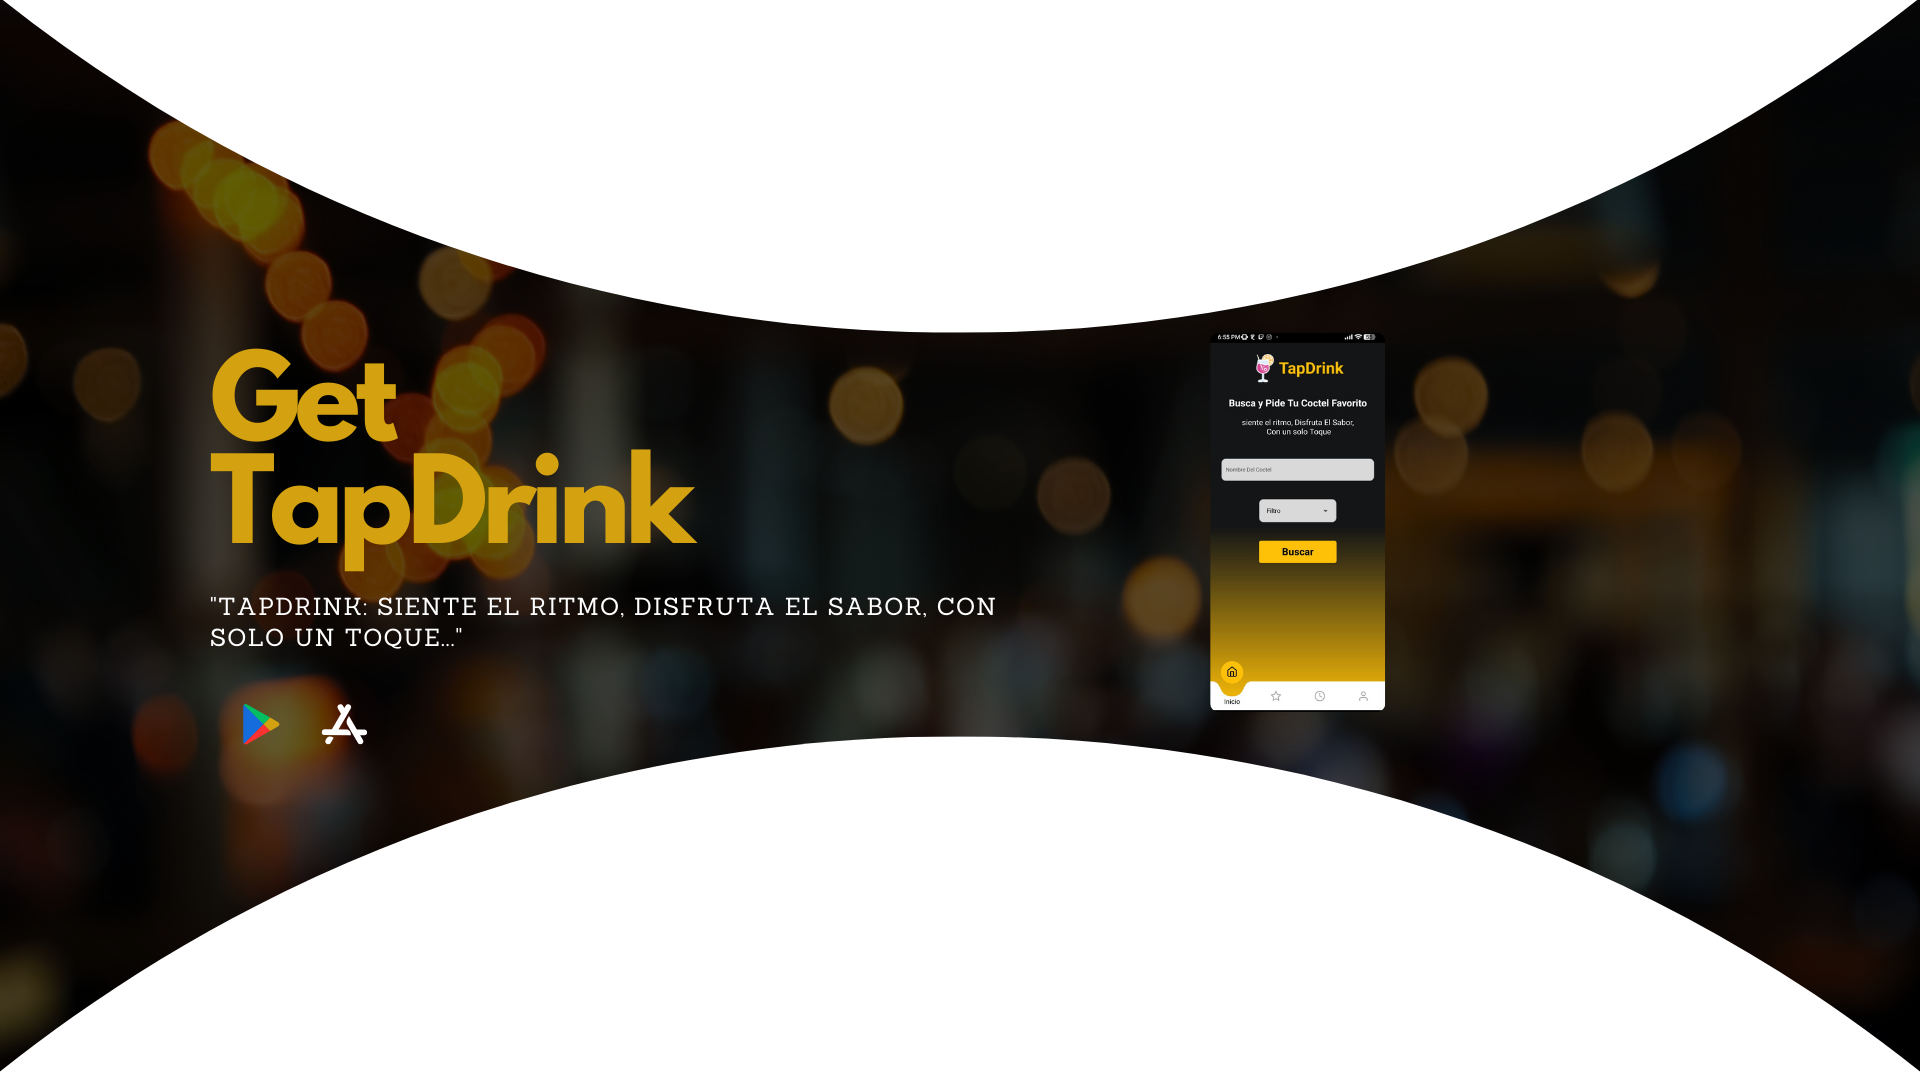
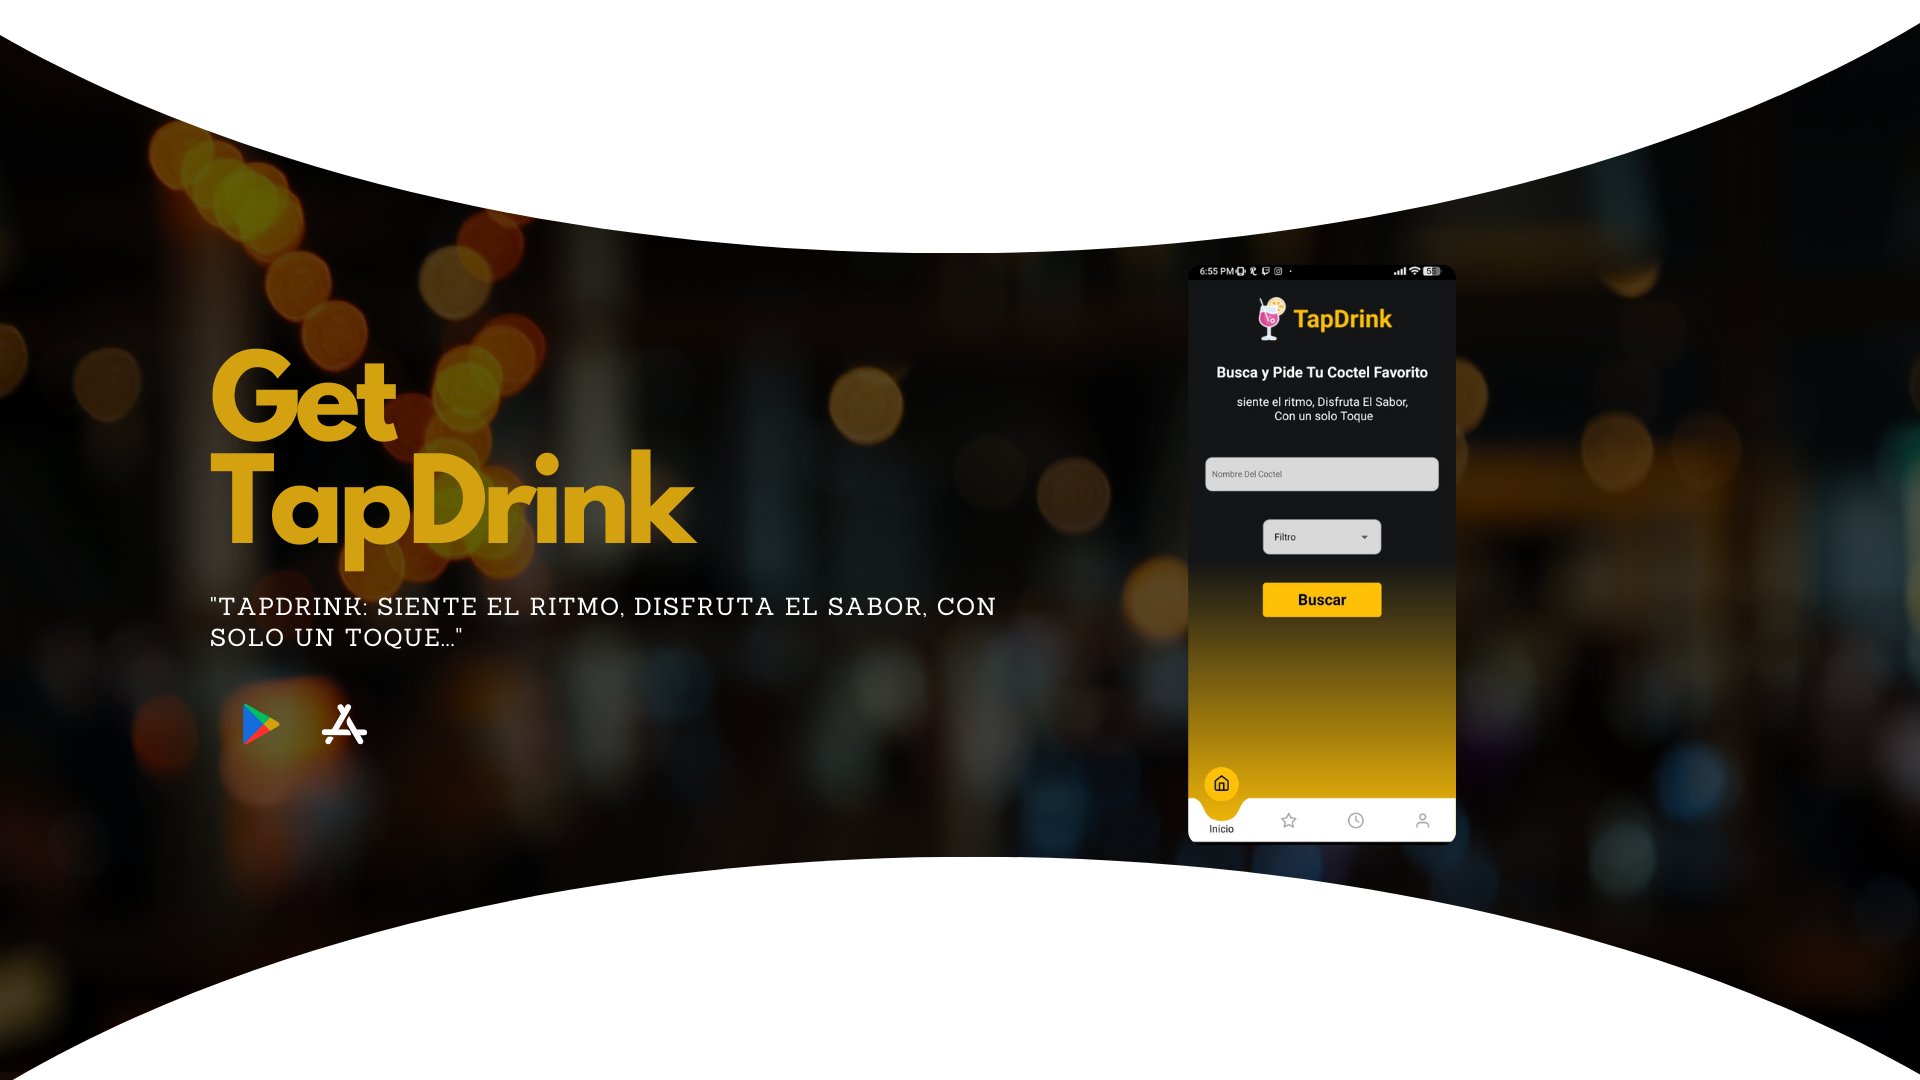
update pagina principal

Changed region(s): [[0.0, 0.0917, 1.0, 1.0], [0.9375, 0.0, 1.0, 0.0917], [0.0, 0.0, 0.0625, 0.0917]]

diff --git a/src/components/principal/Leadership.jsx b/src/components/principal/Leadership.jsx
@@ -1,0 +1,92 @@
+import React from 'react';
+import memo from  '../../assets/Foubders/memo.jpg'
+
+const people = [
+  {
+    name: 'Hector Jose Diaz Sandate',
+    role: 'Co-Founder / CEO',
+    imageUrl:
+      'https://images.unsplash.com/photo-1494790108377-be9c29b29330?ixlib=rb-1.2.1&ixid=eyJhcHBfaWQiOjEyMDd9&auto=format&fit=facearea&facepad=2&w=256&h=256&q=80',
+  },
+  {
+    name: 'Héctor Guillermo Pérez Varela',
+    role: 'Co-Founder',
+    imageUrl:
+      memo,
+  },
+  {
+    name: 'Jazmin Roldán Guzmán',
+    role: 'Co-Founder',
+    imageUrl:
+      'https://images.unsplash.com/photo-1494790108377-be9c29b29330?ixlib=rb-1.2.1&ixid=eyJhcHBfaWQiOjEyMDd9&auto=format&fit=facearea&facepad=2&w=256&h=256&q=80',
+  },
+  {
+    name: 'Diego Martinez Ramirez',
+    role: 'Co-Founder',
+    imageUrl:
+      'https://images.unsplash.com/photo-1494790108377-be9c29b29330?ixlib=rb-1.2.1&ixid=eyJhcHBfaWQiOjEyMDd9&auto=format&fit=facearea&facepad=2&w=256&h=256&q=80',
+  },
+  {
+    name: 'Natalia Ramirez Martinez',
+    role: 'Co-Founder',
+    imageUrl:
+      'https://images.unsplash.com/photo-1494790108377-be9c29b29330?ixlib=rb-1.2.1&ixid=eyJhcHBfaWQiOjEyMDd9&auto=format&fit=facearea&facepad=2&w=256&h=256&q=80',
+  },
+  {
+    name: 'Alann Beltran Monarrez',
+    role: 'Co-Founder',
+    imageUrl:
+      'https://images.unsplash.com/photo-1494790108377-be9c29b29330?ixlib=rb-1.2.1&ixid=eyJhcHBfaWQiOjEyMDd9&auto=format&fit=facearea&facepad=2&w=256&h=256&q=80',
+  },
+  {
+    name: 'Daniel Bretado Soriano',
+    role: 'Co-Founder',
+    imageUrl:
+      'https://images.unsplash.com/photo-1494790108377-be9c29b29330?ixlib=rb-1.2.1&ixid=eyJhcHBfaWQiOjEyMDd9&auto=format&fit=facearea&facepad=2&w=256&h=256&q=80',
+  },
+
+  {
+    name: 'AI',
+    role: 'Co-Founder',
+    imageUrl:
+      'https://res.cloudinary.com/dsht8f3ff/image/upload/v1697785272/claude_ai_b1pbwb.png',
+  },
+  // Agrega más objetos de personas aquí...
+];
+
+const Leadership = () => {
+  return (
+    <div className="bg-white py-24 sm:py-32">
+      <div className="mx-auto grid max-w-7xl gap-x-8 gap-y-20 px-6 lg:px-8 xl:grid-cols-3">
+        <div className="max-w-2xl">
+          <h2 className="text-3xl font-bold tracking-tight text-gray-900 sm:text-4xl">
+            Conoce a nuestro liderazgo
+          </h2>
+          <p className="mt-6 text-lg leading-8 text-gray-600">
+            Libero fames augue nisl porttitor nisi, quis. Id ac elit odio vitae elementum enim vitae ullamcorper
+            suspendisse.
+          </p>
+        </div>
+        <ul role="list" className="grid gap-x-8 gap-y-12 sm:grid-cols-2 sm:gap-y-16 xl:col-span-2">
+          {people.map((person) => (
+            <li key={person.name}>
+              <div className="flex items-center gap-x-6">
+                <img className="h-16 w-16 rounded-full" src={person.imageUrl} alt="" />
+                <div>
+                  <h3 className="text-base font-semibold leading-7 tracking-tight text-gray-900">
+                    {person.name}
+                  </h3>
+                  <p className="text-sm font-semibold leading-6 text-indigo-600">
+                    {person.role}
+                  </p>
+                </div>
+              </div>
+            </li>
+          ))}
+        </ul>
+      </div>
+    </div>
+  );
+};
+
+export default Leadership;

diff --git a/src/components/principal/feature.jsx b/src/components/principal/feature.jsx
@@ -1,0 +1,65 @@
+import React from "react";
+import { ArrowPathIcon, CloudArrowUpIcon, FingerPrintIcon, LockClosedIcon } from '@heroicons/react/24/outline';
+
+const features = [
+  {
+    name: 'Push to deploy',
+    description:
+      'Morbi viverra dui mi arcu sed. Tellus semper adipiscing suspendisse semper morbi. Odio urna massa nunc massa.',
+    icon: CloudArrowUpIcon,
+  },
+  {
+    name: 'SSL certificates',
+    description:
+      'Sit quis amet rutrum tellus ullamcorper ultricies libero dolor eget. Sem sodales gravida quam turpis enim lacus amet.',
+    icon: LockClosedIcon,
+  },
+  {
+    name: 'Simple queues',
+    description:
+      'Quisque est vel vulputate cursus. Risus proin diam nunc commodo. Lobortis auctor congue commodo diam neque.',
+    icon: ArrowPathIcon,
+  },
+  {
+    name: 'Advanced security',
+    description:
+      'Arcu egestas dolor vel iaculis in ipsum mauris. Tincidunt mattis aliquet hac quis. Id hac maecenas ac donec pharetra eget.',
+    icon: FingerPrintIcon,
+  },
+];
+
+const Feature = () => {
+  return (
+    <div className="bg-white py-24 sm:py-32">
+      <div className="mx-auto max-w-7xl px-6 lg:px-8">
+        <div className="mx-auto max-w-2xl lg:text-center">
+          <h2 className="text-base font-semibold leading-7 text-indigo-600">Deploy faster</h2>
+          <p className="mt-2 text-3xl font-bold tracking-tight text-gray-900 sm:text-4xl">
+            Everything you need to deploy your app
+          </p>
+          <p className="mt-6 text-lg leading-8 text-gray-600">
+            Quis tellus eget adipiscing convallis sit sit eget aliquet quis. Suspendisse eget egestas a elementum
+            pulvinar et feugiat blandit at. In mi viverra elit nunc.
+          </p>
+        </div>
+        <div className="mx-auto mt-16 max-w-2xl sm:mt-20 lg:mt-24 lg:max-w-4xl">
+          <dl className="grid max-w-xl grid-cols-1 gap-x-8 gap-y-10 lg:max-w-none lg:grid-cols-2 lg:gap-y-16">
+            {features.map((feature) => (
+              <div key={feature.name} className="relative pl-16">
+                <dt className="text-base font-semibold leading-7 text-gray-900">
+                  <div className="absolute left-0 top-0 flex h-10 w-10 items-center justify-center rounded-lg bg-indigo-600">
+                    <feature.icon className="h-6 w-6 text-white" aria-hidden="true" />
+                  </div>
+                  {feature.name}
+                </dt>
+                <dd className="mt-2 text-base leading-7 text-gray-600">{feature.description}</dd>
+              </div>
+            ))}
+          </dl>
+        </div>
+      </div>
+    </div>
+  );
+};
+
+export default Feature;

diff --git a/src/pages/PaginaPrincipal.jsx b/src/pages/PaginaPrincipal.jsx
@@ -6,20 +6,29 @@ import Testimonio from "../components/principal/Sepa";
 import 'slick-carousel/slick/slick.css';
 import 'slick-carousel/slick/slick-theme.css';
 import getDrink from '../assets/images/Pagina Principal/getDrink.png'
+import pgbg from '../assets/images/Pagina Principal/apbg.png'
 import footer from '../assets/images/Pagina Principal/footer.png'
 import FooterPAge from "../components/principal/Footer"; // Asegúrate de que el nombre del archivo y la exportación coincidan.
+import Feature from "../components/principal/feature"
+import Leadership  from "../components/principal/Leadership"
 
 function Principal() {
 
   return (
     <div>
       <Hero />
-      <AboutSection/>
+      {/* <AboutSection/> */}
+      <Feature/>
       <div style={{ textAlign: 'center' }}>
         <img src={getDrink} alt="Get Drink" />
       </div>
+      <Leadership/>
       <MisionVision/>
+      <div style={{ textAlign: 'center' }}>
+        <img src={pgbg} alt="Get Drink" />
+      </div>
       <Testimonio/>
+      
       <div style={{ textAlign: 'center' }}>
         <img src={footer} alt="Footer" /> {/* Ajusta el atributo alt según corresponda */}
       </div>

diff --git a/src/components/principal/herosection.jsx b/src/components/principal/herosection.jsx
@@ -9,11 +9,9 @@ const PaymentComponent = () => {
         backgroundImage: `url(${imagen2})`,
         backgroundSize: "cover",
         backgroundPosition: "center",
+        backgroundRepeat: "no-repeat",
         width: "100vw",
         height: "100vh",
-        
-        top: 0,
-        left: 0,
       }}
     >
       <div className="grid max-w-screen-xl px-20 py-60  lg:gap-8 xl:gap-0 lg:py-12 lg:grid-cols-12">
